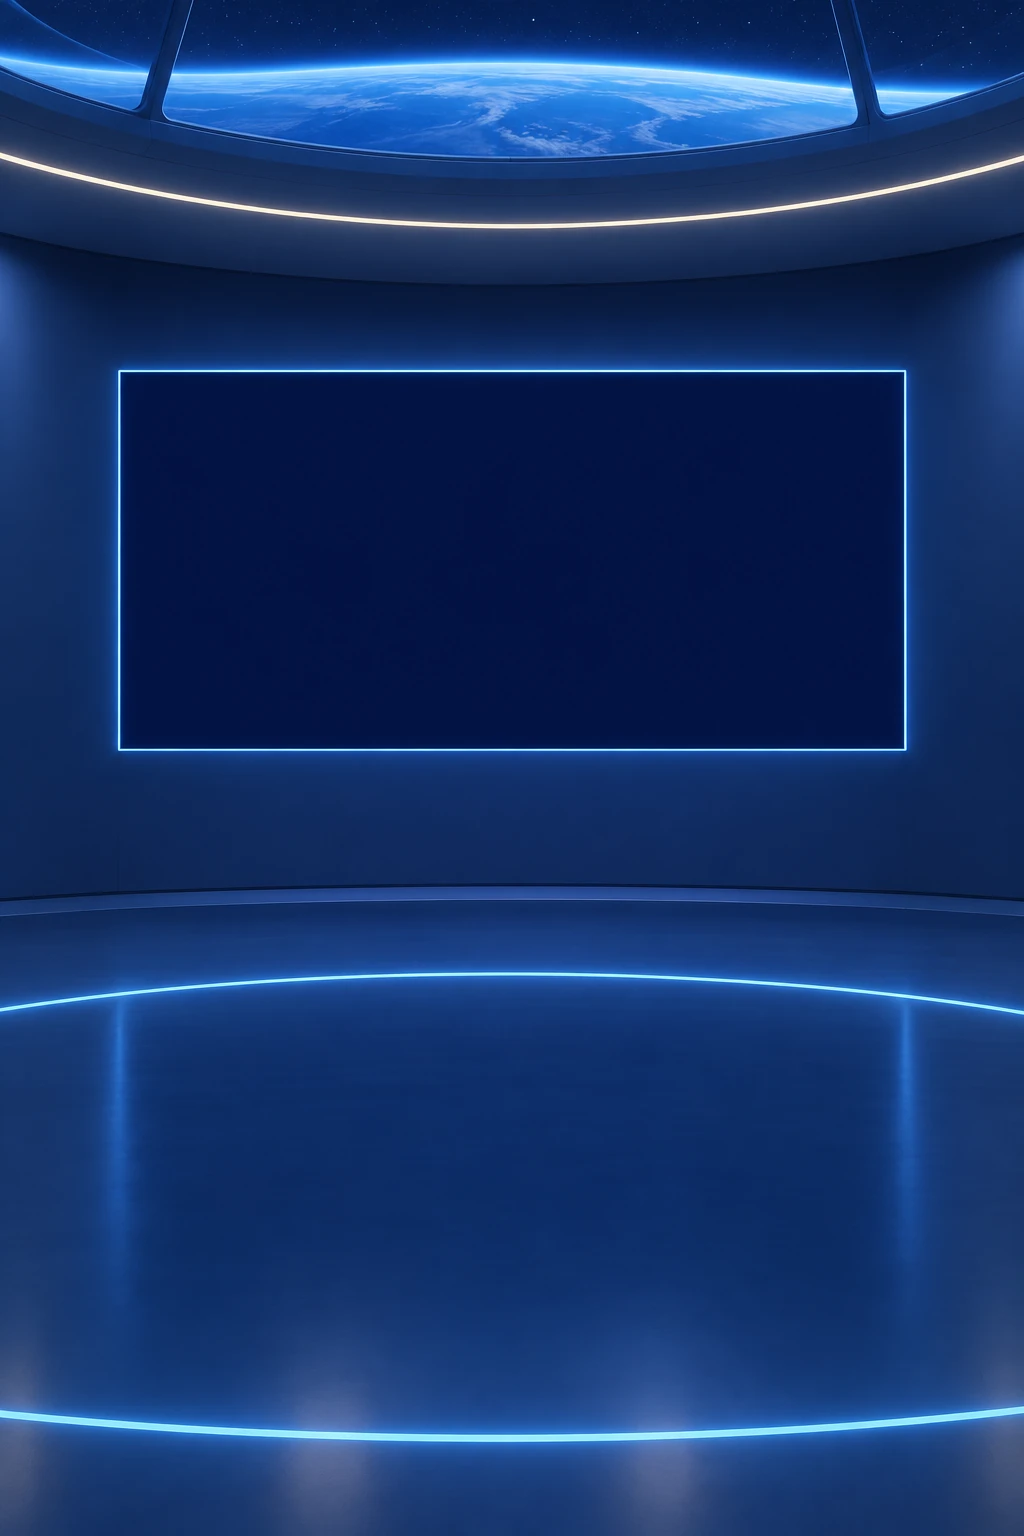
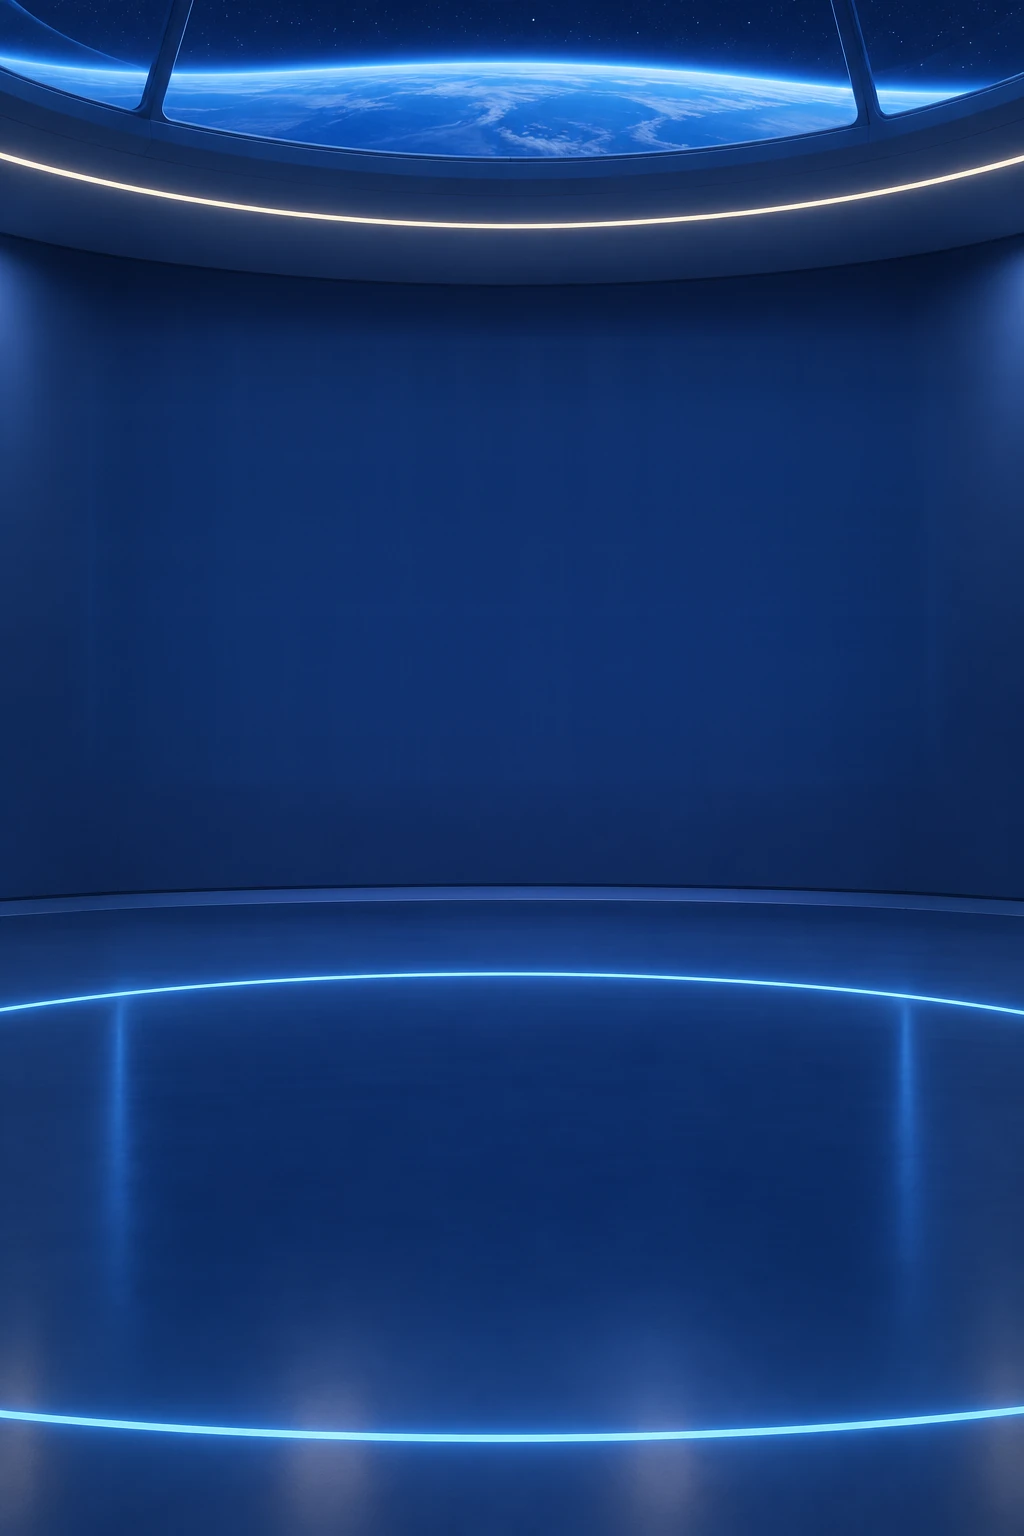
Plain front wall behind the hologram; play button near the bottom, bigger title
- The big screen is painted out of the hall's front wall (both backdrops and both ends of
  the 360° strip), so the lesson's hologram floats in front of a plain wall
  (tools/ui/plain_wall.py, from the lossless originals in git history).
- Start banner: the play button sits near the bottom, over the planet; the DRONE DEFENSE
  title is bigger.

Checked in Chrome and WebKit: start, intro and lesson, no errors.

Changed region(s): [[0.0938, 0.2188, 0.9062, 0.5]]

diff --git a/src/styles/start.css b/src/styles/start.css
@@ -1,13 +1,14 @@
 /* The start banner: the station in orbit, the title and the play button. */
 
 /* ---------------------------------------------------------------- the start banner: the satellite HQ in orbit,
-   drifting slowly, and one big play button in the centre */
+   drifting slowly, the big title above it and one big play button near the bottom */
 .start { position: fixed; inset: 0; z-index: 30; display: grid; place-items: center; overflow: hidden; background: rgb(3, 10, 36); }
 .start__pic { position: absolute; inset: 0; width: 100%; height: 100%; object-fit: cover; object-position: 50% 45%; transform: scale(1.06);
   animation: start-drift 20s ease-in-out infinite alternate; }
 @keyframes start-drift { from { transform: scale(1.06); } to { transform: scale(1.12) translateY(-1.2%); } }
 .start::after { content: ''; position: absolute; inset: 0; pointer-events: none; background: radial-gradient(ellipse at 50% 50%, transparent 45%, rgba(2, 6, 24, .55) 100%); }
-.start__play { position: relative; z-index: 1; width: clamp(124px, 19vmin, 196px); aspect-ratio: 353 / 360; padding: 0; border: 0; border-radius: 50%;
+.start { --play: clamp(110px, 16vmin, 170px); --play-bottom: max(6vh, 24px); }
+.start__play { position: absolute; z-index: 1; left: 0; right: 0; bottom: var(--play-bottom); margin: 0 auto; width: var(--play); aspect-ratio: 353 / 360; padding: 0; border: 0; border-radius: 50%;
   background: none; cursor: pointer; filter: drop-shadow(0 0 10px rgba(160, 248, 255, .95)) drop-shadow(0 0 26px rgba(61, 220, 242, .7)) drop-shadow(0 12px 24px rgba(0, 0, 0, .45));
   animation: play-breathe 2.2s ease-in-out infinite; }
 .start__play img { display: block; width: 100%; height: 100%; pointer-events: none; }
@@ -16,7 +17,7 @@
 .start__play:focus-visible { outline: 3px solid var(--holo); outline-offset: 10px; }
 .start.is-going { pointer-events: none; }
 /* the game title (Figma AI logo): drifts in like a ghost, then floats gently */
-.start__title { position: absolute; z-index: 1; top: max(3vh, 14px); left: 0; right: 0; width: min(88vw, 58vh, 560px); margin: 0 auto;
+.start__title { position: absolute; z-index: 1; top: max(3vh, 14px); left: 0; right: 0; width: min(94vw, 76vh, 820px); margin: 0 auto;
   pointer-events: none; animation: ghost-in .9s cubic-bezier(.22, 1, .36, 1) .15s both; }
 .start__title img { display: block; width: 100%; height: auto; filter: drop-shadow(0 10px 22px rgba(0, 0, 0, .5)); animation: title-float 4s ease-in-out 1.1s infinite alternate; }
 @keyframes title-float { from { transform: translateY(0); } to { transform: translateY(-6px); } }
@@ -25,7 +26,7 @@
   background: radial-gradient(circle closest-side, rgba(170, 250, 255, .95) 52%, rgba(61, 220, 242, .6) 66%, rgba(61, 220, 242, .18) 84%, rgba(61, 220, 242, 0) 100%);
   animation: play-glow 2.2s ease-in-out infinite; }
 @keyframes play-glow { 0%, 100% { transform: scale(.88); opacity: .7; } 50% { transform: scale(1.08); opacity: 1; } }
-.start__note { position: absolute; z-index: 1; bottom: max(8vh, 24px); left: 16px; right: 16px; margin: 0 auto; width: fit-content; max-width: calc(100% - 32px);
+.start__note { position: absolute; z-index: 1; bottom: calc(var(--play-bottom) + var(--play) + 28px);   /* just above the play button */ left: 16px; right: 16px; margin: 0 auto; width: fit-content; max-width: calc(100% - 32px);
   padding: 10px 18px; border-radius: 999px; background: rgba(3, 10, 36, .82); color: #fff; font: 600 clamp(16px, 2.4vmin, 22px) / 1.2 "Fredoka", system-ui, sans-serif; text-align: center; }
 .start.is-going .start__title { transition: opacity .35s ease-in; opacity: 0; }
 @media (prefers-reduced-motion: reduce) { .start__pic, .start__play, .start__play::before, .start__title, .start__title img { animation: none; } }

diff --git a/src/intro/intro.js b/src/intro/intro.js
@@ -1,14 +1,14 @@
 // The opening, after Play. The camera flies into the satellite and stops at its entry gate; the gate
 // checks in (its lights blink, a scan sweeps the doors) and slides open; the camera walks in at eye
 // height, down the corridor and through the doorway into the command hall, where it faces the hall's 2nd
-// wall (its monitors); it turns right past the entrance and the hologram table and stops on the front wall
-// with its big screen. The projector in the floor there wakes up and the lesson card forms in its light,
-// as a hologram. Then the lesson starts.
+// wall (its monitors); it turns right past the entrance and the hologram table and stops on the plain
+// front wall. The projector on the floor there wakes up and the lesson forms in its light, as a hologram.
+// Then the lesson starts.
 //
 // Pictures (Figma AI, assets/ui/intro): the gate, cut into its frame and the two door halves (the halves
 // slide under the frame), and the corridor, its far doorway cut open so the real hall (the lesson's own
 // backdrop, assets/ui/bg) is seen through it. The walk is one camera path: the gate, the corridor's far
-// end and the hall's screen wall each stand at their own distance, so near things grow faster than far
+// end and the hall's front wall each stand at their own distance, so near things grow faster than far
 // ones, and the hall arrives exactly at the lesson's framing (no cut, no crossfade). A step bob, a slight
 // sway and roll, and a footstep on each step make it feel like a person walking. Through the doorway the
 // hall is the look-round strip, turned to the 2nd wall, so the walk and the turn are one view.
@@ -23,7 +23,7 @@ const BANNER_Y = 0.45;                                    // the banner's object
 
 // distances along the walk, in corridor lengths (0: in front of the gate, 1: the far doorway)
 const D_GATE = 0.24;          // the gate plane
-const D_WALL = 0.62;          // the hall's screen wall, beyond where the walk stops
+const D_WALL = 0.62;          // the hall's front wall, beyond where the walk stops
 const STEP_HZ = 1.9;          // steps a second at walking pace
 
 const E = EASE;

diff --git a/src/engine/scene.js b/src/engine/scene.js
@@ -2,12 +2,13 @@
 //
 // The room is a picture made with Figma AI (assets/ui/bg): the command HQ inside the satellite, a wide
 // version for landscape screens and a tall one for phones. The lesson floats as a hologram in front of
-// the front wall's big screen, in the light of a projector on the floor (hq.css); the picture shows the
+// the plain front wall, in the light of a projector on the floor (hq.css); the picture shows the
 // calm hall around it: the domed ceiling, the window band onto the planet, the glowing floor ring.
 // The screen's rectangle is handed to the CSS as --sx, --sy, --sw, --sh (px).
 
 const PICS = {
-  // the front wall's screen, in picture pixels: x0, y0, x1, y1 (the lesson is centred on it)
+  // where the front wall had its screen (painted out by tools/ui/plain_wall.py), in picture pixels:
+  // x0, y0, x1, y1; the lesson is centred on it
   wide: { src: 'assets/ui/bg/hq-wide.webp', w: 1536, h: 1024, screen: [388, 278, 1147, 617] },
   tall: { src: 'assets/ui/bg/hq-tall.webp', w: 1024, h: 1536, screen: [111, 363, 912, 757] },
 };
@@ -32,7 +33,7 @@ export function createScene(img, root = document.documentElement) {
     const sh = Math.max(220, H - top - below);
     const sx = (W - sw) / 2, sy = top;
 
-    // the picture: the whole hall, just big enough to fill the window, with its screen centred
+    // the picture: the whole hall, just big enough to fill the window, with that place centred
     // behind the lesson screen
     const [x0, y0, x1, y1] = P.screen;
     const s = Math.max(W / P.w, H / P.h) * 1.04;

diff --git a/index.html b/index.html
@@ -25,7 +25,7 @@
   <link rel="stylesheet" href="src/styles/pills.css" />
 </head>
 <body>
-  <!-- the ship's strategy HQ (a picture made with Figma AI); the lesson plays on its big screen -->
+  <!-- the ship's strategy HQ (a picture made with Figma AI); the lesson floats in front of its front wall -->
   <div class="room" aria-hidden="true"><img class="room__pic" id="room-pic" alt="" draggable="false" /></div>
 
   <button class="mute" id="mute" type="button" aria-label="Sound on" aria-pressed="true">

diff --git a/tools/ui/plain_wall.py b/tools/ui/plain_wall.py
@@ -1,0 +1,82 @@
+"""The hall's front wall without its screen: a plain wall behind the lesson's hologram.
+
+The HQ pictures (Figma AI) were made with a big dark screen on the front wall. The lesson floats in front
+of that wall as a hologram, so the screen's frame showed through it as a box round the drawing. This
+paints the screen out of the wall (filled smoothly from the wall around it, with the wall's own grain),
+in the wide and the tall backdrop (assets/ui/bg), and in the intro's look round the hall
+(assets/ui/intro/hall-360.webp), whose strip starts and ends on this same wall.
+
+usage:  python3 tools/ui/plain_wall.py MASTERS_DIR
+    MASTERS_DIR holds the lossless originals hq-wide.png and hq-tall.png; they are in git history:
+        git show fda2882~1:assets/ui/bg/hq-wide.png > MASTERS_DIR/hq-wide.png   (and hq-tall.png)
+"""
+import sys
+from pathlib import Path
+
+import numpy as np
+from PIL import Image, ImageFilter
+
+ROOT = Path(__file__).resolve().parents[2]
+# the screen's rectangle in each picture (as in src/engine/scene.js), and how far its glow reaches
+WALLS = {
+    'hq-wide': {'rect': (388, 278, 1147, 617), 'margin': 20},
+    'hq-tall': {'rect': (111, 363, 912, 757), 'margin': 20},
+}
+STRIP = {'src': ROOT / 'assets' / 'ui' / 'intro' / 'hall-360.webp', 'fronts': (0, 4384)}   # where the wide wall sits in it
+
+
+def fill_wall(img, rect, margin):
+    """paint the rectangle out: a Coons patch from the wall on its four sides, plus the wall's grain"""
+    a = np.asarray(img, dtype=np.float64).copy()
+    x0, y0, x1, y1 = rect[0] - margin, rect[1] - margin, rect[2] + margin, rect[3] + margin
+    band = 8
+    top = a[y0 - band:y0].mean(axis=0)[x0:x1]          # the wall just above, per column
+    bot = a[y1:y1 + band].mean(axis=0)[x0:x1]          # just below
+    lef = a[y0:y1, x0 - band:x0].mean(axis=1)          # just left, per row
+    rig = a[y0:y1, x1:x1 + band].mean(axis=1)          # just right
+    h, w = y1 - y0, x1 - x0
+    v = np.linspace(0, 1, h)[:, None, None]
+    u = np.linspace(0, 1, w)[None, :, None]
+    c00, c10 = a[y0 - band:y0, x0 - band:x0].mean((0, 1)), a[y0 - band:y0, x1:x1 + band].mean((0, 1))
+    c01, c11 = a[y1:y1 + band, x0 - band:x0].mean((0, 1)), a[y1:y1 + band, x1:x1 + band].mean((0, 1))
+    patch = ((1 - v) * top[None] + v * bot[None] + (1 - u) * lef[:, None] + u * rig[:, None]
+             - ((1 - u) * (1 - v) * c00 + u * (1 - v) * c10 + (1 - u) * v * c01 + u * v * c11))
+    # the wall's grain: the fine detail of the wall beside the patch, tiled
+    sample = a[y0:y1, max(0, x0 - 140):x0 - 20]
+    grain = sample - np.asarray(Image.fromarray(sample.astype(np.uint8)).filter(ImageFilter.GaussianBlur(6)), dtype=np.float64)
+    reps = (int(np.ceil(h / grain.shape[0])), int(np.ceil(w / grain.shape[1])), 1)
+    patch += np.tile(grain, reps)[:h, :w]
+    # blend in over the outer few pixels so there is no edge
+    f = 6
+    ramp_y = np.clip(np.minimum(np.arange(h), np.arange(h)[::-1]) / f, 0, 1)[:, None, None]
+    ramp_x = np.clip(np.minimum(np.arange(w), np.arange(w)[::-1]) / f, 0, 1)[None, :, None]
+    k = np.minimum(ramp_y, ramp_x)
+    a[y0:y1, x0:x1] = a[y0:y1, x0:x1] * (1 - k) + patch * k
+    return Image.fromarray(np.clip(a, 0, 255).astype(np.uint8))
+
+
+def save(img, out, quality=90):
+    img.save(out, 'WEBP', quality=quality, method=6)
+    print(f'{out.relative_to(ROOT)}: {out.stat().st_size // 1024} KB')
+
+
+def main(masters):
+    masters = Path(masters)
+    walls = {}
+    for name, cfg in WALLS.items():
+        walls[name] = fill_wall(Image.open(masters / f'{name}.png').convert('RGB'), cfg['rect'], cfg['margin'])
+        save(walls[name], ROOT / 'assets' / 'ui' / 'bg' / f'{name}.webp')
+    # the look round the hall: the same plain wall at both ends of the strip
+    strip = Image.open(STRIP['src']).convert('RGB')
+    x0, y0, x1, y1 = WALLS['hq-wide']['rect']
+    pad = WALLS['hq-wide']['margin'] + 12
+    piece = walls['hq-wide'].crop((x0 - pad, y0 - pad, x1 + pad, y1 + pad))
+    for off in STRIP['fronts']:
+        strip.paste(piece, (off + x0 - pad, y0 - pad))
+    save(strip, STRIP['src'], quality=85)
+
+
+if __name__ == '__main__':
+    if len(sys.argv) < 2:
+        sys.exit(__doc__)
+    main(sys.argv[1])

diff --git a/docs/lesson-design.md b/docs/lesson-design.md
@@ -27,7 +27,7 @@ one continuous camera move with no cuts:
    the corridor and the hall each stand at their own distance, so near things grow faster than far
    ones, and the walk stops exactly on the lesson's view of the hall.
 4. It comes into the hall facing the surveillance monitors (the 2nd wall) and turns right, slowing at
-   each wall: the entrance it came through, the map table, and the front wall with its big screen.
+   each wall: the entrance it came through, the map table, and the plain front wall.
 5. The projector on the floor in front of the screen wakes up (it rises into view and its lights come
    on), a column of light rises from it, and the lesson forms in that light from the bottom up,
    flickering in like a hologram, while the hall's lights go down. Then the lesson starts. The lesson
@@ -143,8 +143,9 @@ Kept to what the interactions need:
   are Figma AI pictures (`assets/ui/start/`, `assets/ui/recall/`, `assets/ui/hint/`, `assets/ui/hall/`).
   The title and the projector were made on flat green and cut out with `tools/ui/cut_green.py`.
 - The HQ background is two pictures made with Figma AI (`assets/ui/bg/`): a wide one for landscape
-  screens and a tall one for phones. `src/engine/scene.js` centres the lesson on the front wall's
-  screen.
+  screens and a tall one for phones. The pictures had a big screen on the front wall;
+  `tools/ui/plain_wall.py` paints it out (the lesson's hologram floats in front of the plain wall), and
+  `src/engine/scene.js` centres the lesson where it was.
 - The buttons are the capsules from the POLYGON Figma file (source art in `tools/ui/polygon/`).
 - The UI kit is in Figma (https://www.figma.com/design/tyeZIE8dPEVxyAIccfBrov). Its screens show an
   earlier layout.

diff --git a/README.md b/README.md
@@ -7,9 +7,9 @@ opposite angles and their proof, and the recall. On the last step, Launch missio
 
 It opens on a start banner (the Drone Defense title over the satellite HQ in orbit, and a play button).
 Play runs a short intro film: into the satellite, through its gate, down the corridor into the command
-hall, facing its monitors wall, and round to the front wall with its big screen. A projector on the
+hall, facing its monitors wall, and round to its plain front wall. A projector on the
 floor there wakes up, and the lesson forms in its light: a hologram with no panel, floating in front of
-the screen. The narration is one line at the top, read aloud by a recorded voice (the game's co-pilot,
+the wall. The narration is one line at the top, read aloud by a recorded voice (the game's co-pilot,
 shown as an AI orb); each word lights up as it is said. In the recall, a drone projects the five
 summary cards one by one.
 
@@ -65,6 +65,7 @@ assets/                    only what the page loads
 tools/                     run by hand, not by the page
   ui/encode_images.py      a picture to WebP (settings inside); rebuilds the intro's pictures
   ui/cut_green.py          cuts Figma AI art made on green out of its background (projector, title)
+  ui/plain_wall.py         paints the big screen out of the hall's front wall (backdrops, 360° strip)
   ui/inline_pills.py       builds src/styles/pills.css from tools/ui/polygon (POLYGON capsule art)
   vo/make_vo.py            makes the voice with Kokoro, for every line in steps.js and main.js
   vo/split_vo.py           splits long recorded lines into pieces (cuts at the word times)
